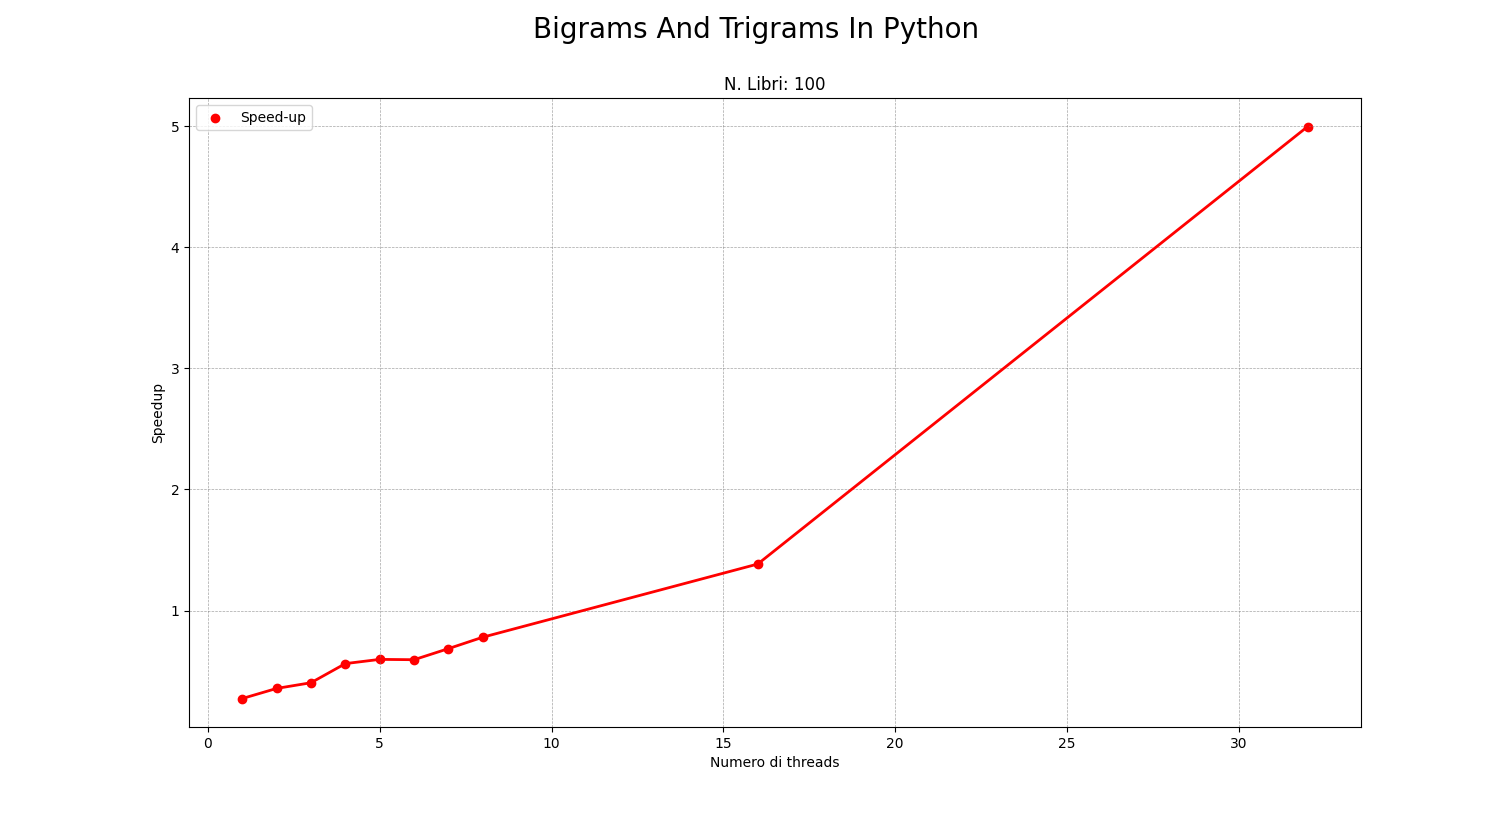
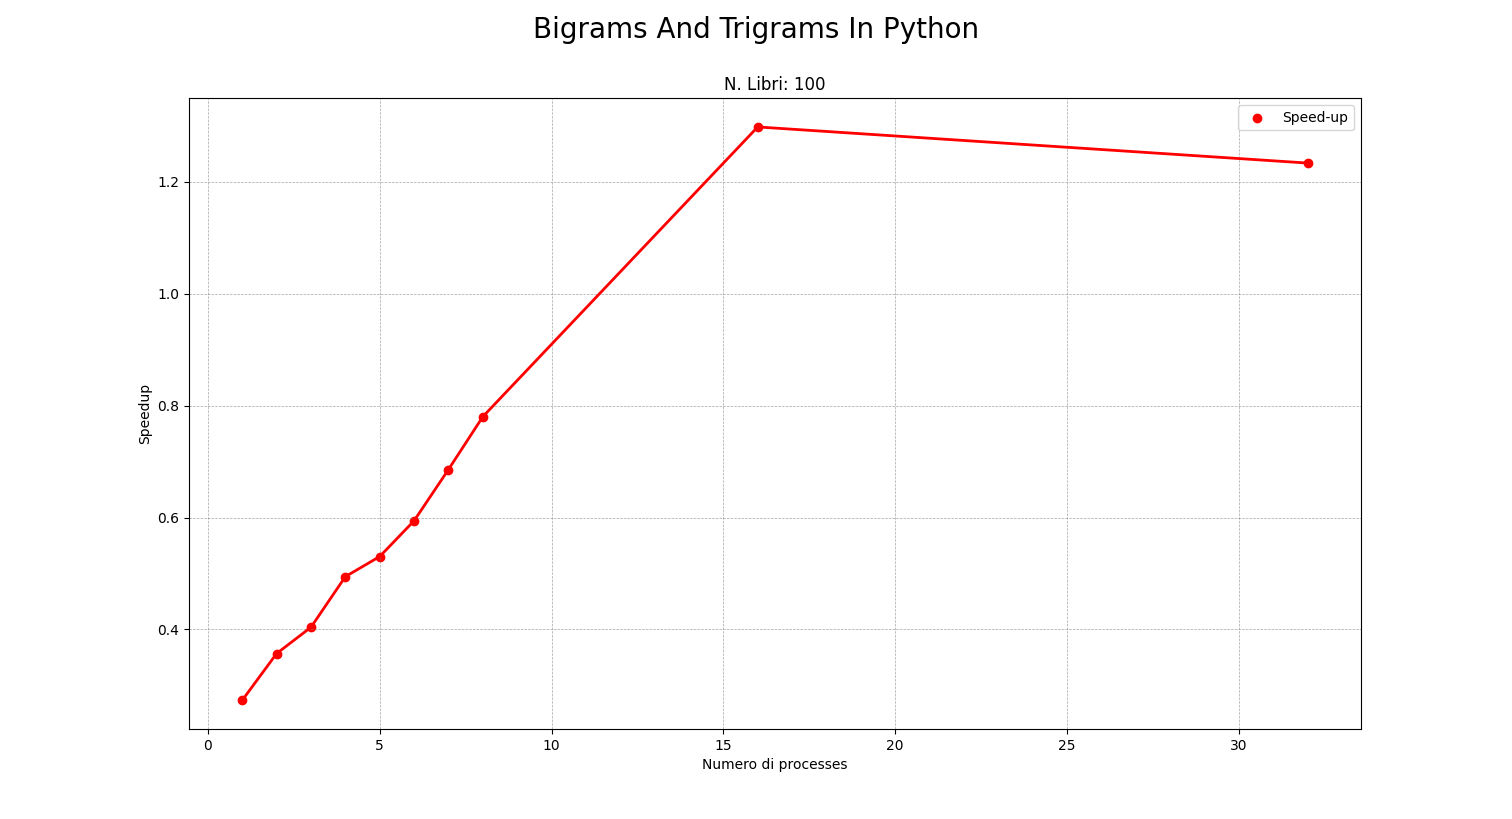
fix results

diff --git a/FinalTermExam/Results/results.py b/FinalTermExam/Results/results.py
@@ -4,14 +4,14 @@ def sequenziale_parallelo():
     #MAC
     num_threads = [1, 2, 3, 4, 5, 6, 7, 8, 16, 32]
     tempo_esecuzione_sequenziale = [181.758]
-    tempo_esecuzione_parallelo_asyncio = [51.331, 33.196, 27.009, 26.752, 23.222, 21.166, 20.351, 19.956, 22.663, 92.674]
+    tempo_esecuzione_parallelo_asyncio = [51.331, 33.196, 27.009, 23.531, 20.634, 21.166, 20.351, 19.956, 21.249, 22.875]
     tempo_esecuzione_parallelo_multiprocessing=[187.664, 92.992, 66.851, 47.598, 38.908, 35.622, 29.677, 25.581, 16.372, 18.547]
 
     plt.scatter(num_threads[0], tempo_esecuzione_sequenziale, color='red', marker='o', label='Sequenziale')
     plt.plot(num_threads[0], tempo_esecuzione_sequenziale, color='red', linestyle='-', linewidth=2)
 
 
-    plt.scatter(num_threads, tempo_esecuzione_parallelo_asyncio, color='blue', marker='o', label='Asyncio')
+    plt.scatter(num_threads, tempo_esecuzione_parallelo_asyncio, color='blue', marker='o', label='Asyncio + Multiprocessing')
     plt.plot(num_threads, tempo_esecuzione_parallelo_asyncio, color='blue', linestyle='-', linewidth=2)
 
     plt.scatter(num_threads, tempo_esecuzione_parallelo_multiprocessing, color='green', marker='o', label='Multiprocessing')
@@ -39,7 +39,7 @@ def sequenziale_parallelo_completo():
     plt.scatter(num_book, tempo_esecuzione_sequenziale, color='red', marker='o', label='Sequenziale')
     plt.plot(num_book, tempo_esecuzione_sequenziale, color='red', linestyle='-', linewidth=2)
 
-    plt.scatter(num_book, tempo_esecuzione_parallelo_asyncio, color='blue', marker='o', label='Asyncio')
+    plt.scatter(num_book, tempo_esecuzione_parallelo_asyncio, color='blue', marker='o', label='Asyncio + Multiprocessing')
     plt.plot(num_book, tempo_esecuzione_parallelo_asyncio, color='blue', linestyle='-', linewidth=2)
 
     plt.scatter(num_book, tempo_esecuzione_parallelo_multiprocessing, color='green', marker='o', label='Multiprocessing')
@@ -60,7 +60,7 @@ def speed_up_sequenziale_asyncio():
     #MAC
     num_threads = [1, 2, 3, 4, 5, 6, 7, 8, 16, 32]
     tempo_esecuzione_sequenziale = [181.758]
-    tempo_esecuzione_parallelo_asyncio = [51.331, 33.196, 27.009, 26.752, 23.222, 21.166, 20.351, 19.956, 22.663, 92.674]
+    tempo_esecuzione_parallelo_asyncio = [51.331, 33.196, 27.009, 23.531, 20.634, 21.166, 20.351, 19.956, 21.249, 22.875]
 
 
     speed_up = []
@@ -105,7 +105,7 @@ def speed_up_sequenziale_multiprocessing():
 
 def speed_up_parallelo():
     num_threads = [1, 2, 3, 4, 5, 6, 7, 8, 16, 32]
-    tempo_esecuzione_parallelo_asyncio = [51.331, 33.196, 27.009, 26.752, 23.222, 21.166, 20.351, 19.956, 22.663, 92.674]
+    tempo_esecuzione_parallelo_asyncio = [51.331, 33.196, 27.009, 23.531, 20.634, 21.166, 20.351, 19.956, 21.249, 22.875]
     tempo_esecuzione_parallelo_multiprocessing=[187.664, 92.992, 66.851, 47.598, 38.908, 35.622, 29.677, 25.581, 16.372, 18.547]
 
     speed_up = []

diff --git a/FinalTermExam/parallel_asyncio/src/main.py b/FinalTermExam/parallel_asyncio/src/main.py
@@ -26,7 +26,7 @@ async def main():
     
     setup_system(f"{working_directory}/resources/")
 
-    books = 100
+    books = 1000
     start_time = time.time()
 
     async with aiohttp.ClientSession() as session:
@@ -50,16 +50,16 @@ if __name__ == "__main__":
 #10 libri: 2.492 s  
 #50 libri: 14.049 s  
 # 100 libri: 
-    #32 workers: 92.674 s
-    #16 workers: 22.663 s
-    #8 workers: 19.956 s
-    #7 workers: 20.351
-    #6 workers: 21.166 s
-    #5 workers: 23.222 s
-    #4 workers: 26.752 s
-    #3 workers: 27.009 s
-    #2 workers: 33.196 s
-    #1 workers: 51.331 s
+    #32 processes: 22.875 s
+    #16 processes: 21.249 s
+    #8 processes: 19.956 s
+    #7 processes: 20.351 s
+    #6 processes: 21.166 s
+    #5 processes: 20.634 s
+    #4 processes: 23.531 s
+    #3 processes: 27.009 s
+    #2 processes: 33.196 s
+    #1 processes: 51.331 s
 #500 libri: 64.102 s
 #1000 libri: 136.378 s
 
